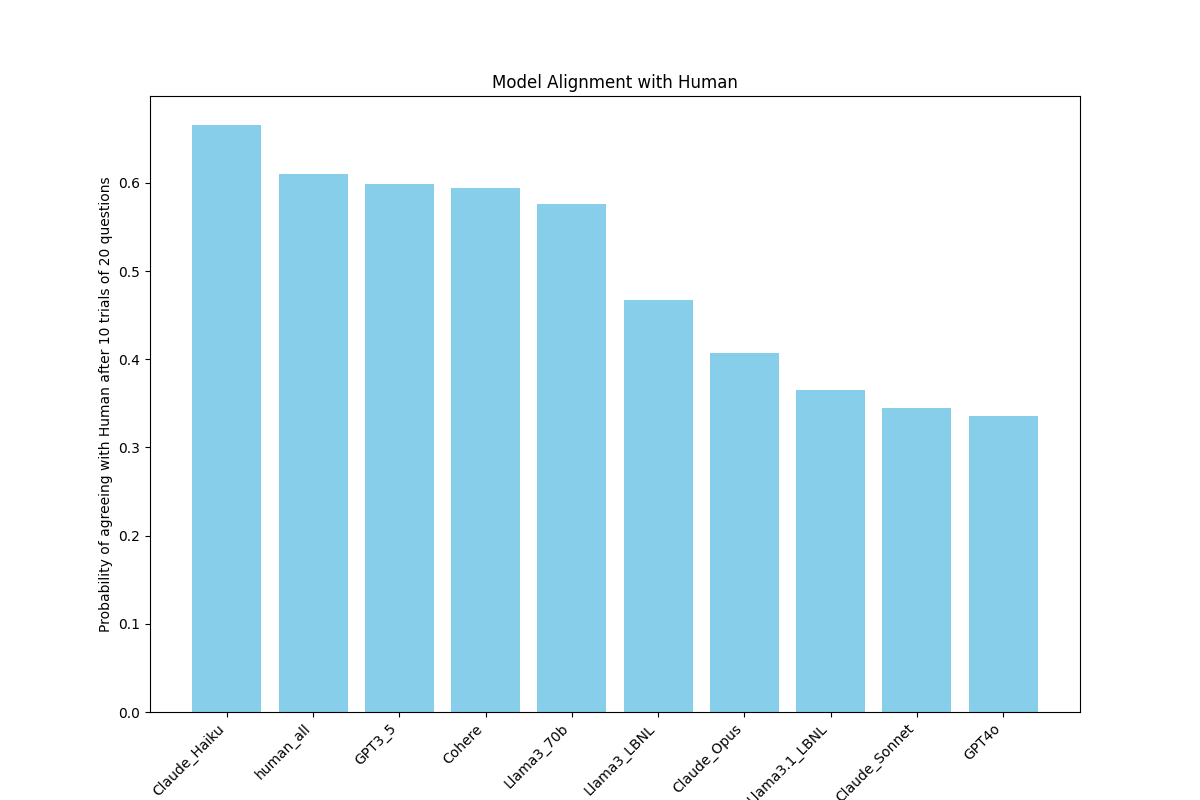
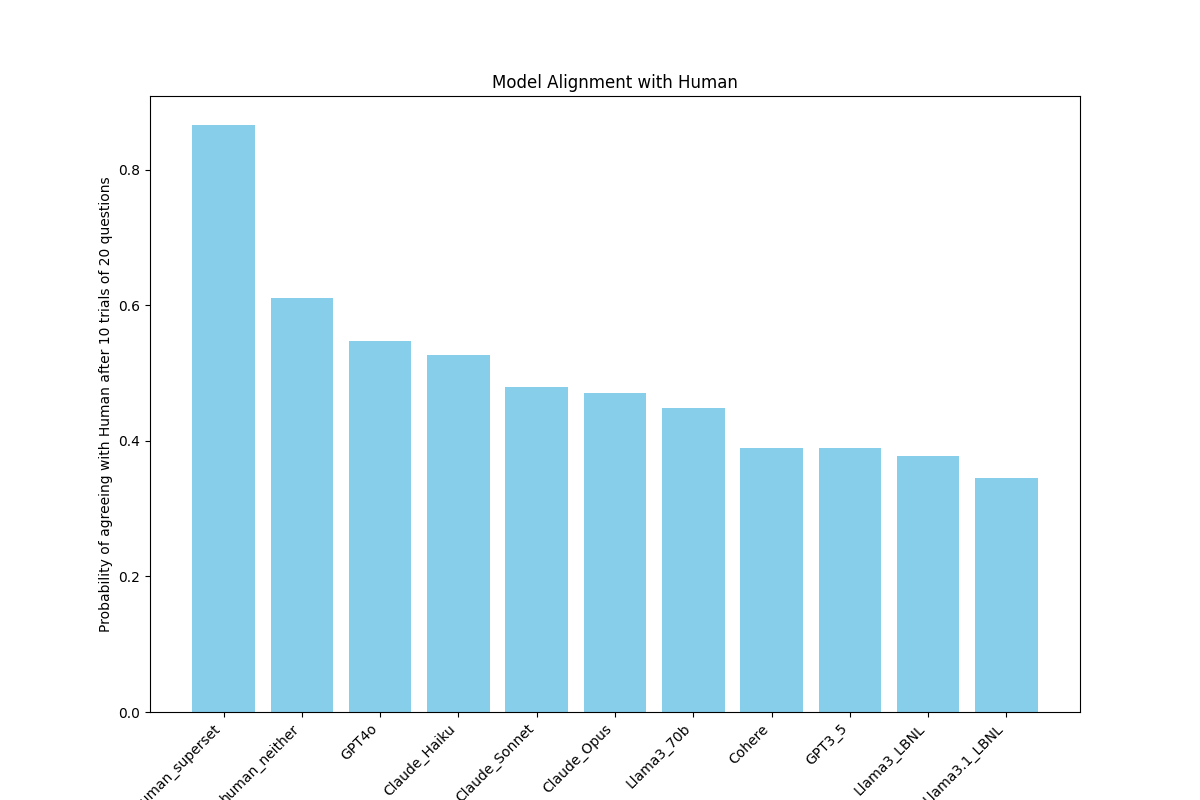
added human superset

diff --git a/evaluator.py b/evaluator.py
@@ -9,6 +9,7 @@ from pathlib import Path
 
 # folder with the input jsons
 input_folder = Path("./data")
+human_reference = 'human_all'
 
 # on how many questions are two models compared in a trial
 nb_questions_per_trial = 20
@@ -43,6 +44,7 @@ def import_jsons(input_folder:Path):
     return data_dict
 
 # import the contests data to be analyzed
+print("Loading Data...")
 contests_data = import_jsons(input_folder)
 
 #--------------------------------------------------------------------------------------------------
@@ -66,8 +68,8 @@ def extract_contestants(contests_data):
     return contestant_index
 
 # extract contestants
+print("Running Comptations...")
 contestants_index = extract_contestants(contests_data)
-print(f"Contestants: {contestants_index}")
 
 #--------------------------------------------------------------------------------------------------
 # COMPUTE WIN PROBABILITY
@@ -101,7 +103,6 @@ def compute_judges_win_probability(contestants_index, all_contests:Dict[str,Dict
 
 # compute win probabilities
 judges_probability_matrices = compute_judges_win_probability(contestants_index, contests_data)
-print(f"Win Probability matrices: {judges_probability_matrices}")
 
 #--------------------------------------------------------------------------------------------------
 # COMPUTE MAJORITY WIN PROBABILITY
@@ -130,7 +131,6 @@ def compute_judges_majority_win_probability(judges_probability_matrices, nb_ques
 
 # compute majority win probabilities
 judges_majority_win_probability_matrices = compute_judges_majority_win_probability(judges_probability_matrices, nb_questions_per_trial)
-print(f"Majority Win Probability matrices: {judges_majority_win_probability_matrices}")
 
 #--------------------------------------------------------------------------------------------------
 # MARKOV TRANSITION MATRIX
@@ -143,10 +143,12 @@ def compute_markov_transition_matrix(win):
     for r in range(n):
         for c in range(n):
             if r != c:
-                # NOTE: win[c,r]: transition probability is the probability of THEM (c) winning against us (r)
+                # NOTE: transition probability is the probability of THEM (c) winning against us (r) (win[c,r])
+                #       times probability of a trial between the two ( 1 / (n-1) )
                 markov[r, c] = win[c, r] / (n - 1)
 
     # Compute the diagonal elements
+    # probability of staying where we are
     for r in range(n):
         markov[r, r] = 1 - np.sum(markov[r, :])
 
@@ -157,7 +159,6 @@ def compute_judges_markov_matrices(judges_majority_win_probability_matrices):
 
 # compute markov transtion matrices
 judges_markov_matrices = compute_judges_markov_matrices(judges_majority_win_probability_matrices)
-print(f"Markov transition matrices: {judges_markov_matrices}")
 
 #--------------------------------------------------------------------------------------------------
 # MARKOV END PROBABILITIES
@@ -173,7 +174,7 @@ def apply_markov_chain(markov_matrix, nb_trials):
     # Matrix exponentiation for large numbers of trials
     prob_vector = prob_vector @ np.linalg.matrix_power(markov_matrix, nb_trials)
     
-    # Final renormalization to handle numerical instabilities
+    # Final renormalization to handle potential numerical instabilities
     prob_vector /= np.sum(prob_vector)
     return prob_vector
 
@@ -182,7 +183,6 @@ def compute_judges_end_proba(judges_markov_matrices, nb_trials):
 
 # compute markov transtion matrices
 judges_end_probas = compute_judges_end_proba(judges_markov_matrices, nb_trials)
-print(f"End probabilities: {judges_end_probas}")
 
 #--------------------------------------------------------------------------------------------------
 # AGREEMENT PROBABILITIES
@@ -194,21 +194,20 @@ def agreement_probability(prob_vector1, prob_vector2):
 
 def compute_alignment(models_dict):
     # Extract the human model's probability vector
-    human_prob_vector = models_dict.get('human')
+    human_prob_vector = models_dict.get(human_reference)
     
     # Initialize a dictionary to store the alignment results
     alignment_dict = {}
     
     # Compute the alignment for each model against the human model
     for model, prob_vector in models_dict.items():
-        if model != 'human':
+        if model != human_reference:
             alignment_dict[model] = agreement_probability(prob_vector, human_prob_vector)
     
     return alignment_dict
 
 # compute judges alignements
 judges_alignements = compute_alignment(judges_end_probas)
-print(f"Alignements: {judges_alignements}")
 
 #--------------------------------------------------------------------------------------------------
 # PLOTS
